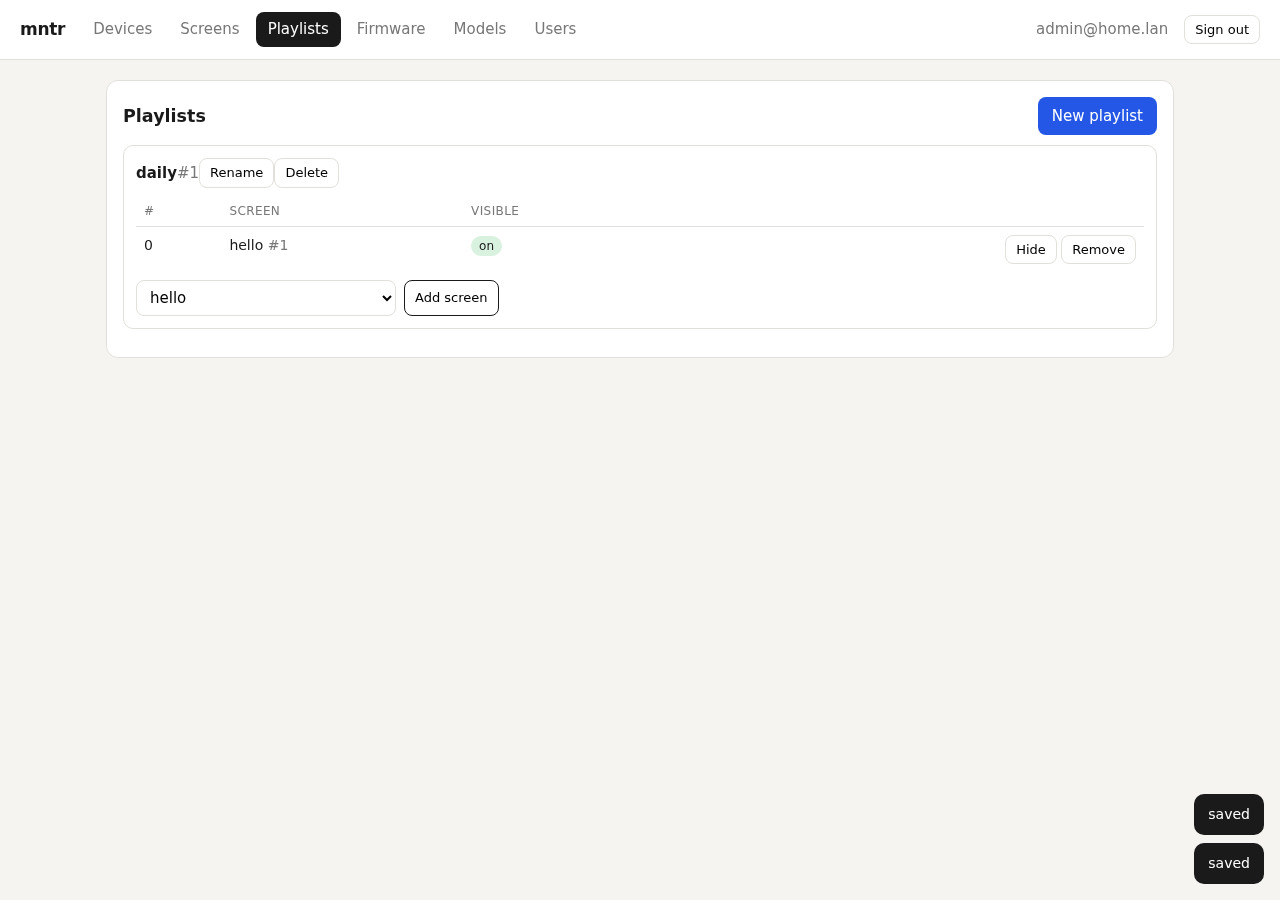
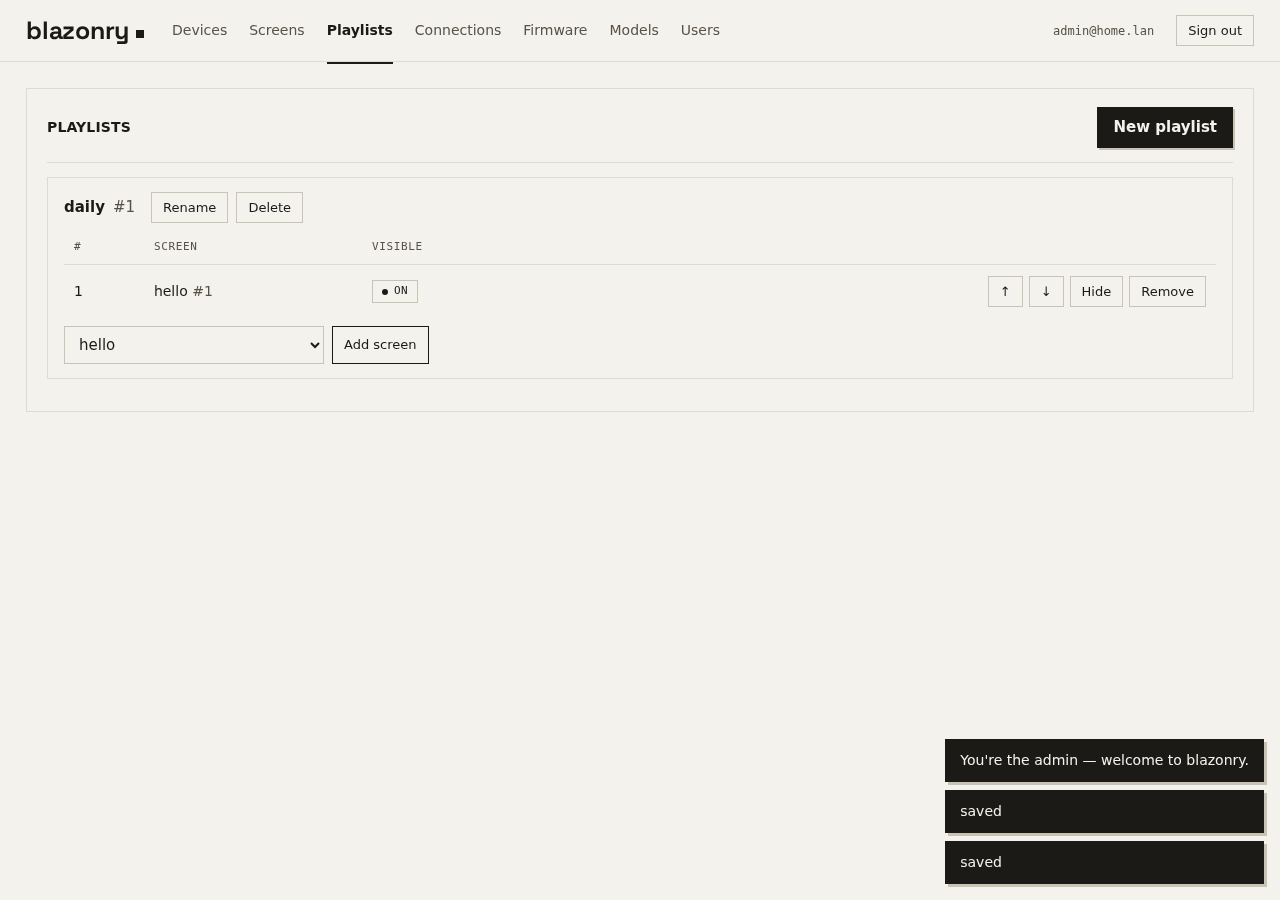
docs: refresh all README screenshots; weather example uses Seattle
The docs/img corpus was stale: the UI shots still showed the old mntr
wordmark and '<old-demo-header>' demo content. Regenerated everything from the
current tree:

- ui_{devices,screens,playlists,users}.png — scripts/ui_check.py (current
  blazonry branding, Seattle demo screen)
- screen-render.png — cargo run --bin demo (header now 'Seattle — Thursday')
- firmware-sim.png — scripts/e2e_sim.py with --seed scripts/seed_weather.json:
  real firmware in QEMU rendering the live weather extension for Seattle
  (47.61,-122.33)
- social-card.png — scripts/social_card.py (was already current; regenerated
  for consistency)

Seed content de-personalized: demo header and weather provider now say
Seattle (was 'Home HQ' / Springfield IL coords).

diff --git a/scripts/ui_check.py b/scripts/ui_check.py
@@ -52,7 +52,7 @@ try:
         pg.click("text=New screen")
         pg.wait_for_selector("dialog[open]")
         pg.fill("dialog input", "hello")
-        pg.fill("dialog textarea >> nth=1", '{"title":"Home HQ","body":"it works"}')
+        pg.fill("dialog textarea >> nth=1", '{"title":"Seattle","body":"it works"}')
         pg.click("dialog button.pri")
         pg.wait_for_timeout(1500)
         pg.screenshot(path=os.path.join(ROOT, "ui_screens.png"))

diff --git a/src/bin/demo.rs b/src/bin/demo.rs
@@ -24,7 +24,7 @@ const TEMPLATE: &str = r##"{
 
 fn main() -> anyhow::Result<()> {
     let vars = json!({
-        "header": "Home HQ — Thursday",
+        "header": "Seattle — Thursday",
         "temp": 61,
         "condition": "drizzle",
         "sleep": "6h 12m",
